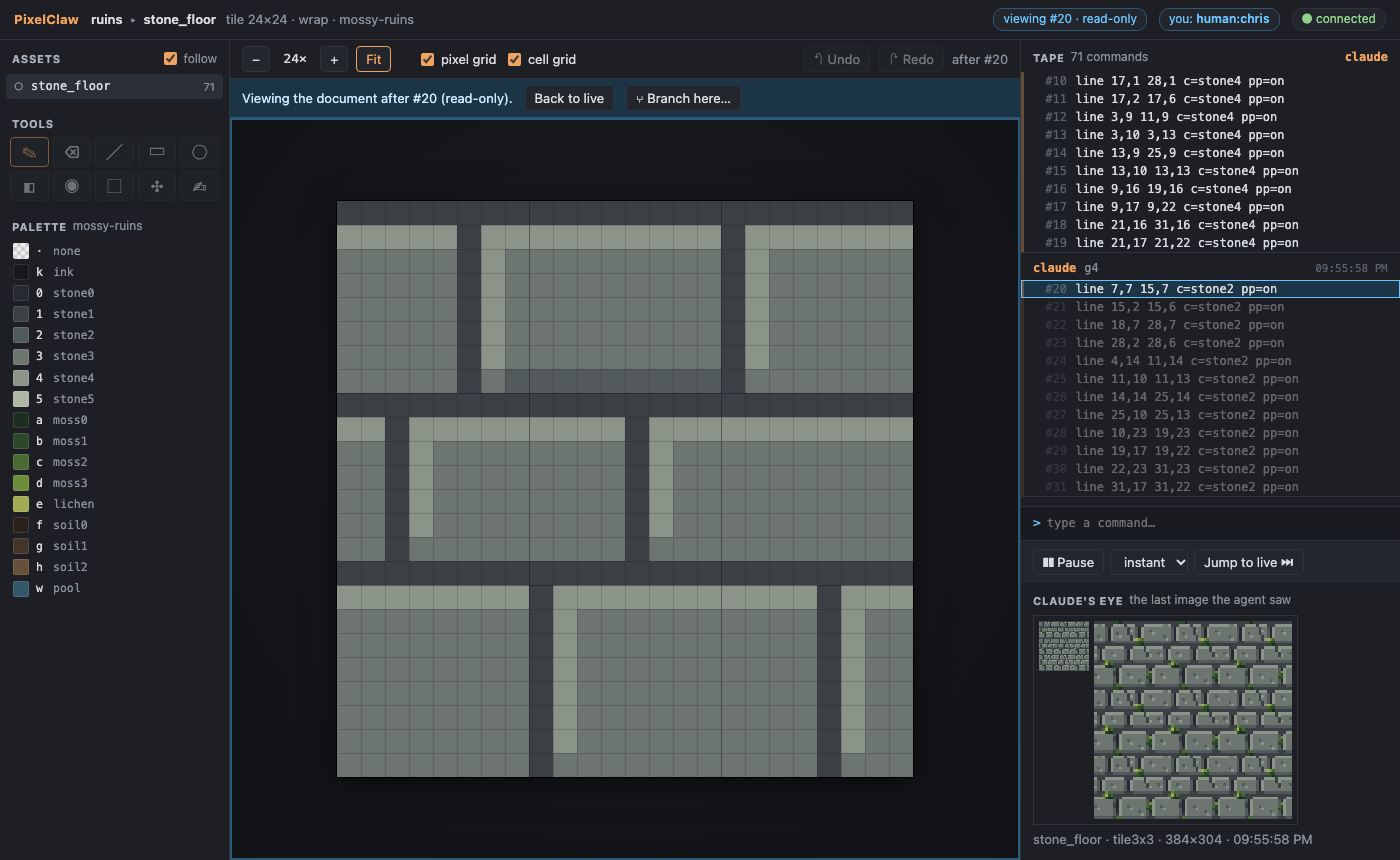
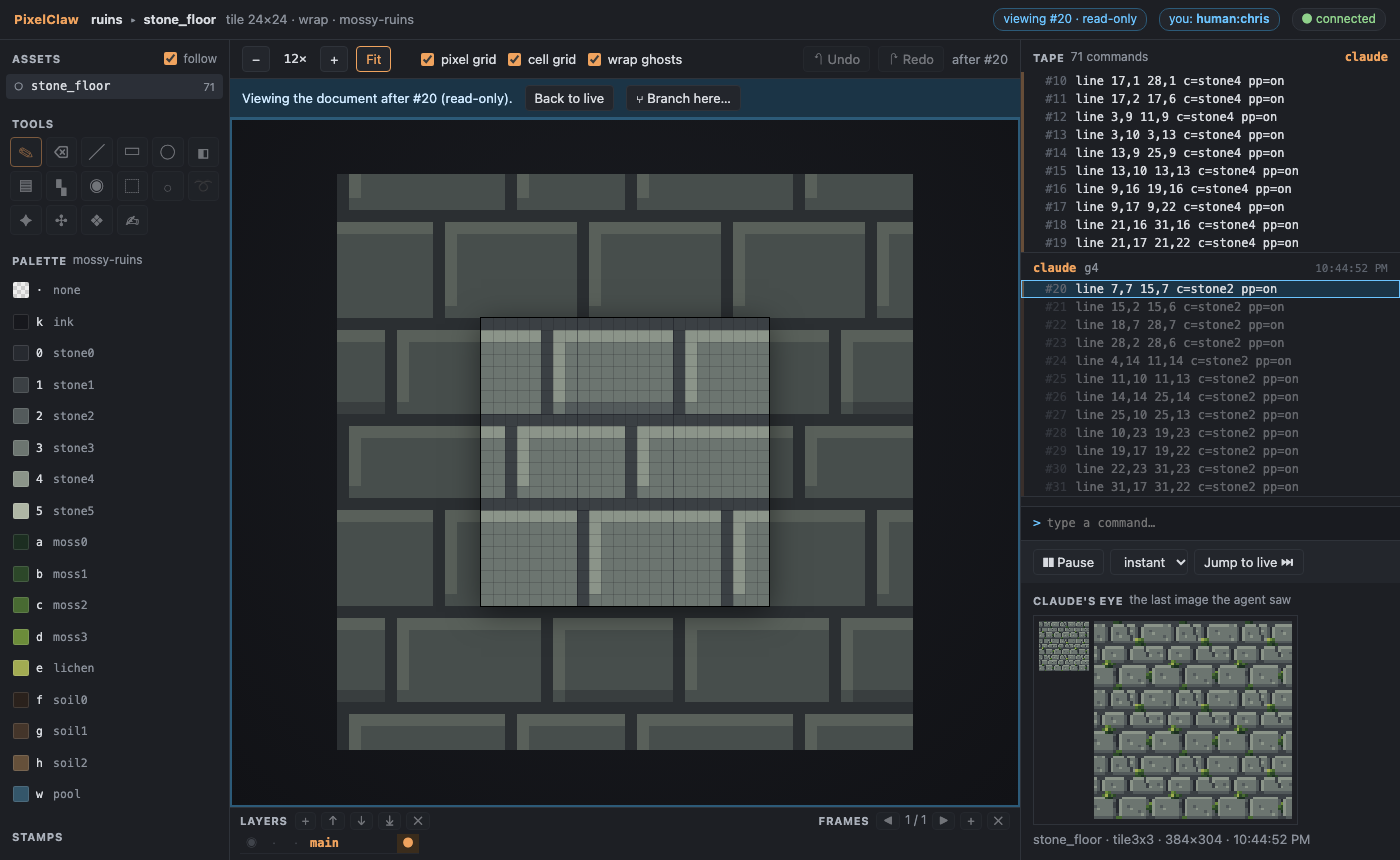
G4 ui: toolbar and side panel layout; G2-G4 screenshots

diff --git a/scripts/screenshots.ts b/scripts/screenshots.ts
@@ -1,4 +1,4 @@
-// Screenshots of the watch view for the docs (docs/screenshots/g2-*.png and g3-*.png). Starts a
+// Screenshots of the watch view for the docs (docs/screenshots/g2-*, g3-* and g4-*.png). Starts a
 // server on a temporary project, drives it over MCP like an agent and with the mouse like a
 // person, and photographs the page at a few moments. Nothing is left running.
 //   node scripts/screenshots.ts
@@ -100,9 +100,10 @@ line 37,4 43,11 c=pool ; line 43,4 37,11 c=pool`,
   await drag(page, [[5, 4], [6, 4], [6, 5], [7, 5], [8, 5], [9, 5], [9, 4], [10, 4]], false);
   await page.screenshot({ path: out('g3-pencil') });
   await page.mouse.up();
-  // A rectangle selection moved: one group of three lines on the tape.
+  // A rectangle selection (a select line), moved (a shift line).
   await page.keyboard.press('m');
   await drag(page, [[3, 10], [12, 13]]);
+  await page.waitForTimeout(200);
   await drag(page, [[6, 11], [6, 12]]);
   await page.waitForTimeout(200);
   await page.mouse.move(5, 5);
@@ -156,7 +157,94 @@ line 37,4 43,11 c=pool ; line 43,4 37,11 c=pool`,
   await settled(page);
   await (await tapeRow(page, 6_000)).click();
   await page.screenshot({ path: out('g3-long-tape') });
-  console.log('wrote docs/screenshots/g2-*.png and g3-*.png');
+  await page.close();
+
+  // --- G4: the drawing toolkit.
+  const g4 = await browser.newPage({ viewport: { width: 1400, height: 860 }, deviceScaleFactor: 1 });
+  await g4.goto(`${agent.url}&name=chris`);
+  await g4.getByTestId('status').getByText('live').waitFor();
+  await g4.getByTestId('speed').selectOption('Infinity');
+  const g4script = (f: string) => readFileSync(join(REPO, 'examples', 'scripts', f), 'utf8');
+  // The grass tile, seamless by construction: wrap ghosts show its neighbours.
+  await agent.call('run', { asset: 'grass', commands: g4script('grass.pclaw') });
+  await agent.call('view', { asset: 'grass', mode: 'tile3x3' });
+  await g4.locator('.assets li', { hasText: /^○grass\d/ }).click();
+  await settled(g4);
+  await g4.mouse.move(5, 5);
+  await g4.screenshot({ path: out('g4-grass') });
+  // Two variants: forks before the texture, the same macro with other seeds.
+  for (const f of ['grass_b.pclaw', 'grass_c.pclaw']) {
+    const text = g4script(f);
+    await agent.call('run', { asset: /fork grass (\S+)/.exec(text)![1]!, commands: text });
+  }
+  await agent.call('view', { asset: 'grass_c', mode: 'tile3x3' });
+  await g4.locator('.assets li', { hasText: 'grass_c' }).click();
+  await settled(g4);
+  await g4.locator('[data-testid=eye] img').click();
+  await g4.screenshot({ path: out('g4-variants') });
+  await g4.locator('.modal').click();
+  // The chest: everything up to the merge, so the metal layer is still its own, then the rest.
+  const chest = g4script('chest.pclaw');
+  const cut = chest.indexOf('layer merge metal');
+  await agent.call('run', { asset: 'chest', commands: chest.slice(0, cut) });
+  await g4.locator('.assets li', { hasText: 'chest' }).click();
+  await settled(g4);
+  await g4.mouse.move(5, 5);
+  await g4.screenshot({ path: out('g4-chest-layers') });
+  await agent.call('run', { asset: 'chest', commands: chest.slice(cut), view: 'render' });
+  await settled(g4);
+  await g4.screenshot({ path: out('g4-chest') });
+  // A person on a sprite of their own: a reference layer to trace over, symmetry while drawing.
+  await agent.call('run', { asset: 'mask', commands: `new sprite mask 16x16
+layer add sketch below=main reference
+layer sketch
+ellipse 7,7 r=6x7 c=pool fill
+layer main
+frame add 2 copy=1
+frame add 3 copy=1` });
+  await g4.locator('.assets li', { hasText: 'mask' }).click();
+  await settled(g4);
+  await g4.locator('[data-colour=stone3]').click();
+  await g4.keyboard.press('b');
+  await g4.getByTestId('mirror-x').click();
+  await drag(g4, [[3, 3], [4, 6], [5, 9], [6, 12]]);
+  await g4.waitForTimeout(200);
+  await g4.locator('[data-colour=ink]').click();
+  await drag(g4, [[4, 5], [5, 5], [6, 6]], false);
+  await g4.screenshot({ path: out('g4-symmetry') });
+  await g4.mouse.up();
+  await g4.getByTestId('mirror-x').click();
+  // Selections: a wand selection plus a lasso being drawn (Shift adds).
+  await g4.keyboard.press('w');
+  await drag(g4, [[3, 3]]);
+  await g4.waitForTimeout(200);
+  await g4.keyboard.press('q');
+  await g4.keyboard.down('Shift');
+  await drag(g4, [[9, 2], [14, 3], [13, 9], [9, 8], [10, 5]], false);
+  await g4.screenshot({ path: out('g4-lasso') });
+  await g4.mouse.up();
+  await g4.keyboard.up('Shift');
+  await g4.waitForTimeout(200);
+  // A gradient through the selection, colour A to colour B along the stone ramp.
+  await g4.locator('[data-colour=stone1]').click();
+  await g4.locator('[data-colour=stone5]').click({ button: 'right' });
+  await g4.keyboard.press('Shift+G');
+  await g4.getByTestId('gradient-pattern').selectOption('bayer4');
+  await drag(g4, [[8, 2], [8, 13]]);
+  await g4.waitForTimeout(300);
+  await g4.mouse.move(5, 5);
+  await g4.screenshot({ path: out('g4-gradient') });
+  // Stamps: save the selection as one, and the timeline with frames and layers.
+  await g4.getByTestId('stamp-save').click();
+  await g4.getByTestId('stamp-save-ok').click();
+  await g4.keyboard.press('Escape');
+  await g4.locator('[data-cel="main:2"]').click();
+  await g4.keyboard.press('s');
+  await drag(g4, [[11, 10]]);
+  await g4.waitForTimeout(300);
+  await g4.mouse.move(5, 5);
+  await g4.screenshot({ path: out('g4-stamps-frames') });
+  console.log('wrote docs/screenshots/g2-*.png, g3-*.png and g4-*.png');
 } finally {
   await browser.close();
   await agent.close();

diff --git a/ui/src/styles.css b/ui/src/styles.css
@@ -197,3 +197,7 @@ input[type='text'], input:not([type]) { font: inherit; color: var(--text); backg
 .tools { grid-template-columns: repeat(6, 1fr); }
 .colour-now .ab { font-size: 10px; font-weight: 700; color: var(--accent); }
 .colour-now .ab.b { color: var(--human); margin-left: 6px; }
+.toolbar { flex-wrap: wrap; row-gap: 4px; }
+.toolbar label, .toolbar button, .toolbar .colour-now, .toolbar .dim { white-space: nowrap; }
+aside.left .swatches { flex: 1 1 auto; min-height: 80px; }
+aside.left .stamps { max-height: 120px; overflow: auto; }
